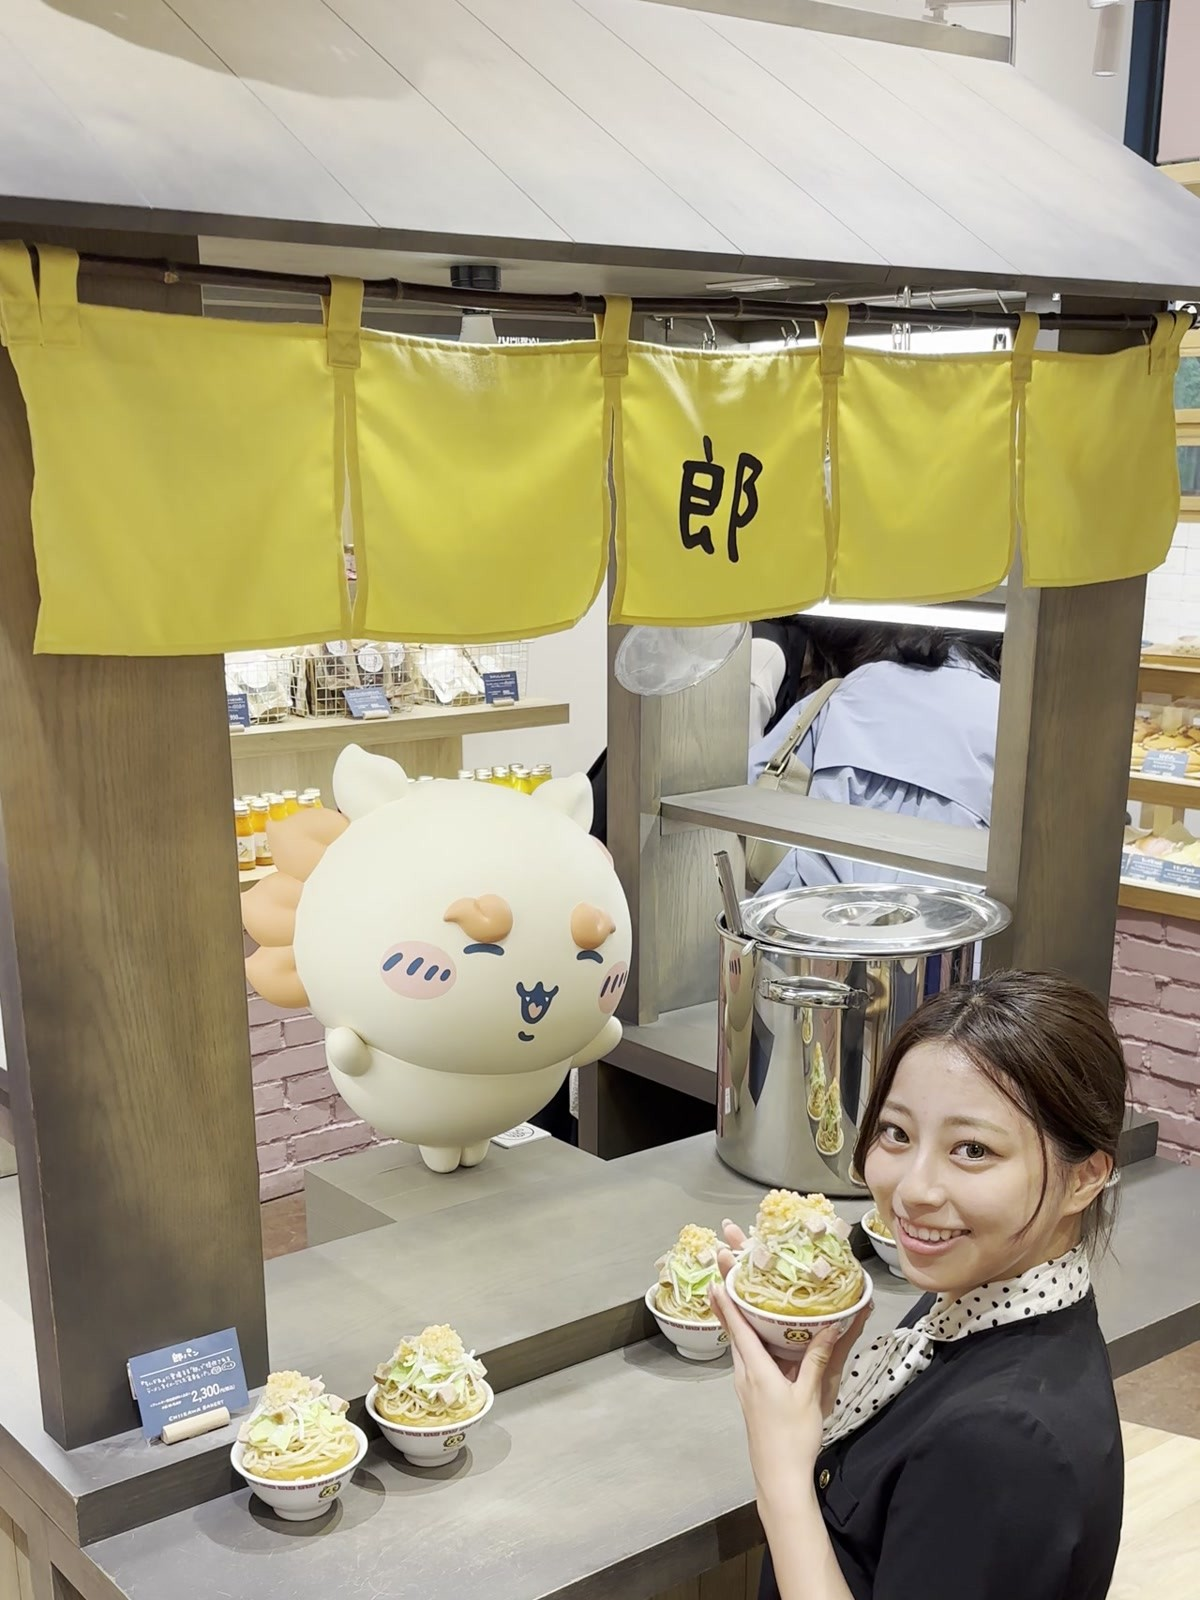
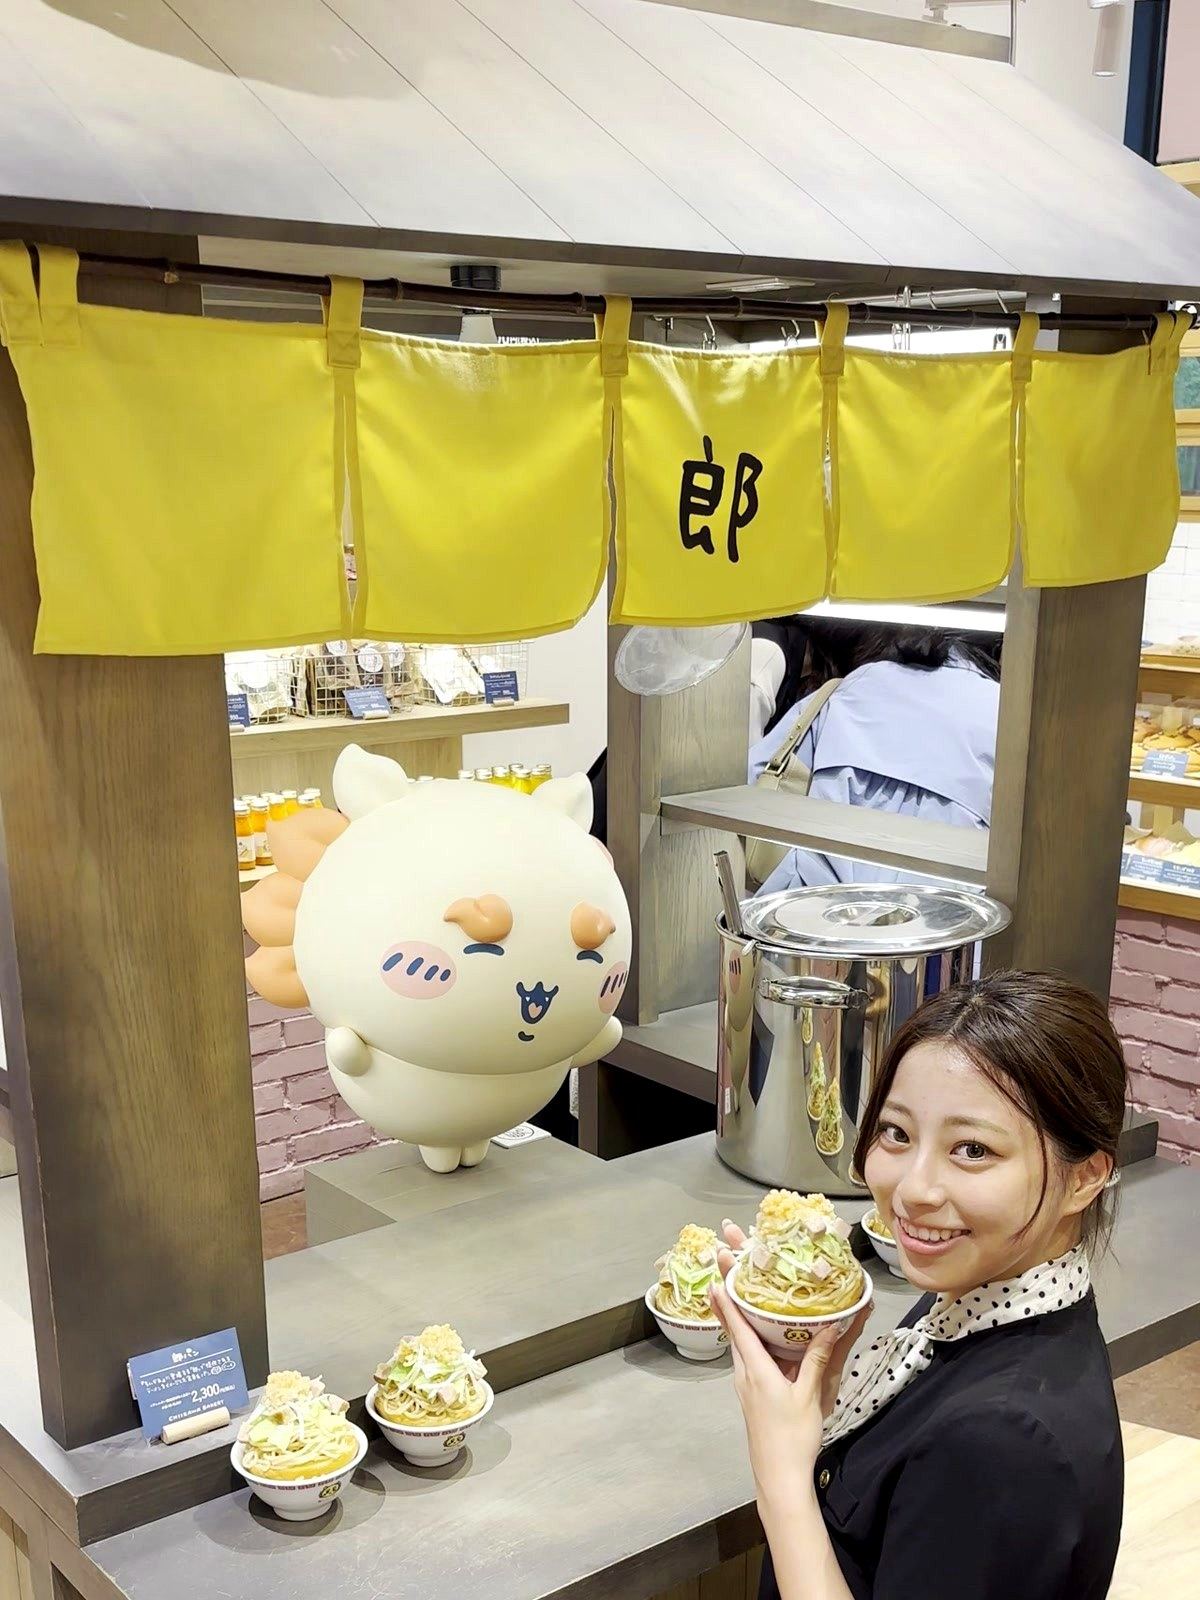
feat: One Piece Cafe GENE article + Chiikawa improvements
- New article: One Piece Cafe GENE Shibuya visitor guide (Phase 2)
- Landscape hero crop with Moe + Luffy standee (face fully framed)
- Added 30-second answer TL;DR, reservation comparison table, menu ranking, novelty Loot box, PARCO 6F 1-hour plan
- Chiikawa article: reservation comparison table, What you take home box
- Subtle color enhancement on Moe photos (saturation+18%, contrast+8%, not over-processed)

Changed region(s): [[0.0, 0.1562, 0.925, 0.4062], [0.185, 0.5, 0.2467, 0.5312], [0.4317, 0.4688, 0.4625, 0.5]]

diff --git a/content/articles/one-piece-cafe-gene-shibuya-guide-2026.md b/content/articles/one-piece-cafe-gene-shibuya-guide-2026.md
@@ -8,7 +8,7 @@ tags: ["one-piece", "shibuya", "2026-spring", "limited-time"]
 featuredImage: "/images/articles/one-piece-cafe-gene-shibuya-guide-2026/moe-featured.jpg"
 featuredImageAlt: "Moe from Japan Pop Now holding two signature One Piece character drinks at One Piece Cafe GENE in Shibuya PARCO"
 heroImage: "/images/articles/one-piece-cafe-gene-shibuya-guide-2026/moe-hero.jpg"
-heroImageAlt: "Full table spread at One Piece Cafe GENE Shibuya with skull bowl ramen, character drinks, and Straw Hat Crew placemat"
+heroImageAlt: "Moe from Japan Pop Now holding a Luffy cardboard standee inside One Piece Cafe GENE at Shibuya PARCO 6F with Monkey D. Luffy character posters in the background"
 imageCredit: "Photo: Japan Pop Now"
 author: "Japan Pop Now"
 excerpt: "One Piece Cafe GENE at Shibuya PARCO 6F runs through May 18, 2026. After a full afternoon testing the Phase 2 menu — skull bowl ramen, birthday cards, and ¥1,100 character drinks — here is what to order, how to book, and the 3 things international visitors keep getting wrong."
@@ -17,11 +17,24 @@ relatedSlugs: ["tokyo-anime-collab-cafes-spring-2026", "how-to-book-anime-collab
 
 *Last updated: April 2026.*
 
-![Full table spread at One Piece Cafe GENE showing skull bowl ramen, Thousand Sunny drink, character placemat, and Moe from Japan Pop Now](/images/articles/one-piece-cafe-gene-shibuya-guide-2026/moe-hero.jpg)
+![Moe from Japan Pop Now holding a Luffy cardboard standee inside One Piece Cafe GENE at Shibuya PARCO 6F](/images/articles/one-piece-cafe-gene-shibuya-guide-2026/moe-hero.jpg)
 
 **One Piece Cafe GENE is a limited-time collaboration cafe at THE GUEST cafe&diner inside Shibuya PARCO 6F, running through May 18, 2026.** The cafe serves character-themed dishes priced between ¥1,320 and ¥2,090, reservation costs ¥550 via Lawson Ticket (includes a novelty GENE Band), and it shares the same floor as Nintendo TOKYO, Pokemon Center Shibuya, and JUMP SHOP — making it the single best one-stop anime floor in Tokyo right now.
 
 I visited on a weekday afternoon in April 2026 and spent ¥5,060 across 2 food items and 2 drinks. The skull bowl ramen arrived in a bowl shaped like Trafalgar Law's Jolly Roger — lid included — and the birthday card campaign gave me 3 free collectible cards just for ordering. Here is the part most English sites miss: walk-ins work fine after 14:00 on weekdays, the food order limit is 3 items per person, and the ¥550 reservation ticket gets you a random charm that resells for ¥800-1,200 on Mercari.
+
+<div className="jpn-info-box">
+
+**The 30-second answer**
+
+- **Where:** Shibuya PARCO 6F (6-min walk from JR Shibuya Hachiko Exit)
+- **When:** Phase 2 runs April 1 - May 18, 2026, 10:00-21:00
+- **Book?** Lawson Ticket ¥550 — optional. Walk-in works weekdays after 14:00.
+- **Spend:** ¥3,000-5,000 per person for the full food + drink + coaster experience
+- **One thing to order:** Straw Hat Salt Ramen in the skull bowl (¥1,980)
+- **Free with every visit:** Original placemat + one coaster per drink
+
+</div>
 
 ## One Piece Cafe GENE at a glance
 
@@ -67,6 +80,14 @@ If you are combining this with our [Shibuya-Harajuku pop culture walking route](
 
 **The catch for international visitors:** Lawson Ticket requires a Japanese phone number to register. If you do not have one, ask your hotel concierge to book on your behalf, or use a temporary Japanese SIM. Walk-ins are a solid backup plan — see below.
 
+**Your 3 booking options compared:**
+
+| Option | Cost | Guaranteed seat? | Novelty GENE Band | Best for |
+| --- | --- | --- | --- | --- |
+| Lawson Ticket (direct) | ¥550 | Yes | Yes (1 random) | Weekend visitors, card collectors |
+| Hotel concierge booking | ¥550 + tip | Yes | Yes (1 random) | No Japanese phone, first-timers |
+| Walk-in | ¥0 | No (wait 0-40 min) | No | Flexible weekday schedules |
+
 **Walk-in option:** Seats open up after the lunch rush. On weekdays, arriving between 14:00 and 16:00 gives you the best chance of walking in with no wait. Staff at the entrance will tell you the estimated wait time. Weekends are tighter, so arrive before 14:00 or after 18:00 (but food last order is 20:00, so plan accordingly).
 
 For a full breakdown of Lawson Ticket for overseas visitors, see our [Lawson Ticket booking guide](/articles/lawson-ticket-anime-cafe-booking).
@@ -74,6 +95,17 @@ For a full breakdown of Lawson Ticket for overseas visitors, see our [Lawson Tic
 ## What should I order? (Phase 2 menu)
 
 Phase 2 runs April 1 through May 18, 2026 with a completely refreshed menu. The ordering rule is strict: maximum 3 food/dessert items and 5 drinks per person. Here is what stood out.
+
+<div className="jpn-tip">
+
+**Quick ranking from my visit**
+
+- **Most photogenic:** Straw Hat Salt Ramen (the skull bowl lid lift is the money shot)
+- **Best value:** Nakama Wrap Sandwich Plate at ¥1,320 — cheapest food, generous portion
+- **Fan-service pick:** Law & Corazon Memory Sweets Plate (¥2,090) — only order if you love Law
+- **Skip if pressed for time:** Shabondy Bread Gratin — tasty but takes 15 min to arrive
+
+</div>
 
 ![Skull bowl ramen being served at One Piece Cafe GENE — staff lifting the Trafalgar Law Jolly Roger lid to reveal salt ramen inside](/images/articles/one-piece-cafe-gene-shibuya-guide-2026/skull-bowl-ramen.jpg)
 *The skull bowl moment — staff lift the lid tableside and steam rolls out. The bowl is Trafalgar Law's Jolly Roger. Photo: Japan Pop Now*
@@ -132,6 +164,31 @@ Every visitor receives two freebies regardless of what you order:
 **Original coaster** - one random coaster per drink order, featuring iconic anime scenes.
 
 **GENE Band with charm (reservation only)** - If you booked via Lawson Ticket, you receive a random wristband with a character charm attached. There are multiple designs in rotation, and dedicated collectors visit multiple times to complete the set.
+
+<div className="jpn-info-box">
+
+**What you actually take home** (for a typical ¥3,000 visit with 1 food + 1 drink + reservation)
+
+- 1 placemat (Phase 2 exclusive design)
+- 1 coaster (random from ~6 designs)
+- 1 GENE Band charm (reservation only, ~8 designs)
+- 1-2 birthday cards (campaign running through April)
+
+That is 4-5 collectibles for roughly ¥3,630 including the reservation — better merch-to-yen ratio than most pop-up cafes in Tokyo right now.
+
+</div>
+
+## The perfect Shibuya PARCO 6F plan (1-2 hours)
+
+The 6th floor is the highest-density anime merchandise floor in Tokyo. If you are visiting the cafe, do not leave without walking the rest of the floor. Here is a tested route:
+
+1. **0:00-0:10** - Arrive at PARCO 6F. Check cafe wait time at the entrance podium.
+2. **0:10-0:30** - While waiting, hit JUMP SHOP (next door) for One Piece exclusive goods and the collaboration items.
+3. **0:30-0:45** - Quick lap through Pokemon Center Shibuya (the Mega Mewtwo statue is worth the detour).
+4. **0:45-1:45** - Cafe visit. Order food + drink, collect your placemat + coaster + card.
+5. **1:45-2:00** - End at Nintendo TOKYO to test the demo units and grab exclusive Zelda or Mario merch.
+
+If you are short on time, JUMP SHOP plus the cafe alone is a solid 90-minute loop.
 
 ## Why do Japanese fans love this cafe?
 

diff --git a/content/articles/chiikawa-bakery-harajuku-guide-2026.md b/content/articles/chiikawa-bakery-harajuku-guide-2026.md
@@ -75,6 +75,17 @@ Best for morning and lunchtime visits. Pick a 30-minute entry window, pay ¥1,00
 
 Free and genuinely reliable after 15:00 on weekdays or 18:00 on weekends. If there is a queue, staff hand out Airwait QR codes — you scan, get a digital number, and explore Harajuku while you wait instead of standing in line. On weekdays you can typically get in within 10–30 minutes. Weekends after 18:00 run tighter because the shop closes at 20:00, so check [@chiikawabakery on X](https://x.com/chiikawabakery) for same-day capacity updates.
 
+**Reservation vs walk-in at a glance:**
+
+| | Lawson Ticket reservation | Walk-in |
+| --- | --- | --- |
+| Cost | ¥1,000 (returned as voucher) | Free |
+| Best time | Mornings, lunchtime, weekends | Weekday after 15:00 / weekend after 18:00 |
+| Wait time | 0 min (priority entry) | 0-30 min (Airwait QR) |
+| Guaranteed entry | Yes | No, capacity permitting |
+| Net spend if you shop ¥1,000+ | Same as walk-in | Same |
+| Best for | Peak hours, group visits | Flexible schedules, solo travelers |
+
 > **Watch the time:** If you arrive more than 15 minutes late to your reservation slot, it is cancelled and you rejoin the walk-in queue. Build in buffer time — the Omotesando area has more than enough to fill 30 minutes.
 
 For more detail on Lawson Ticket and how to book from outside Japan, see our [Lawson Ticket booking guide](/articles/lawson-ticket-anime-cafe-booking).
@@ -100,6 +111,19 @@ The menu is long and the prices look small, but it adds up fast. Here is how to 
 **Full visit spend: ¥2,000–¥2,800 per person.** One character bread, one drink, one souvenir rusk or financier. If you hold the Lawson Ticket voucher, you recover ¥1,000 of that.
 
 **Quick snack plan: about ¥1,200.** One character bread (¥580) + one iced coffee (¥590). Walk in after 15:00 on a weekday, skip the Lawson Ticket, and enjoy the atmosphere without budget pressure. You still get a coaster, a character bread, and the full bakery experience.
+
+<div className="jpn-info-box">
+
+**What you actually take home** (from a typical ¥2,000 visit)
+
+- 1 character-shaped bread (¥580) — eat it, photograph it, or split it with a travel partner
+- 1 random character coaster (12 designs) — comes free with any drink order
+- 1 packaged souvenir rusk or financier (optional, ¥320-¥990)
+- The bag itself, which is branded and surprisingly durable
+
+Add the Ro Ramen Bread set (¥2,300) if you want a take-home ceramic bowl. The bowl alone would cost more at Laforet B1F.
+
+</div>
 
 ![Moe from Japan Pop Now holding a matcha cupcake next to a large Chiikawa character figure at the Ro Ramen bread counter inside the bakery](/images/articles/chiikawa-bakery-harajuku-guide-2026/moe-body.jpg)
 *Picking up a matcha cupcake at the Ro Ramen counter — the character figures make every corner a photo spot. Photo: Japan Pop Now*
